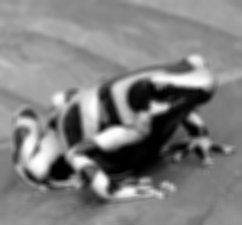
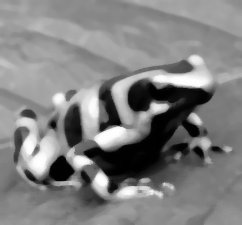
Fixed median filter.

diff --git a/haddock/Data-Image-Internal.html b/haddock/Data-Image-Internal.html
@@ -6,7 +6,7 @@ window.onload = function () {pageLoad();setSynopsis("mini_Data-Image-Internal.ht
 </a></li><li><a href="#g:3">Resizing Images
 </a></li><li><a href="#g:4">Concatenation of Images
 </a></li><li><a href="#g:5">Images as Arrays
-</a></li></ul></div><div id="synopsis"><p id="control.syn" class="caption expander" onclick="toggleSection('syn')">Synopsis</p><ul id="section.syn" class="hide" onclick="toggleSection('syn')"><li class="src short"><span class="keyword">class</span>  <a href="#t:Image">Image</a> i  <span class="keyword">where</span><ul class="subs"><li><span class="keyword">type</span> <a href="#t:Pixel">Pixel</a> i :: *</li><li><a href="#v:makeImage">makeImage</a> :: Int -&gt; Int -&gt; <a href="Data-Image-Internal.html#t:PixelOp">PixelOp</a> (<a href="Data-Image-Internal.html#t:Pixel">Pixel</a> i) -&gt; i</li><li><a href="#v:ref">ref</a> :: i -&gt; Int -&gt; Int -&gt; <a href="Data-Image-Internal.html#t:Pixel">Pixel</a> i</li><li><a href="#v:rows">rows</a> :: i -&gt; Int</li><li><a href="#v:cols">cols</a> :: i -&gt; Int</li><li><a href="#v:pixelList">pixelList</a> :: i -&gt; [<a href="Data-Image-Internal.html#t:Pixel">Pixel</a> i]</li><li><a href="#v:imageOp">imageOp</a> :: (<a href="Data-Image-Internal.html#t:Pixel">Pixel</a> i -&gt; <a href="Data-Image-Internal.html#t:Pixel">Pixel</a> i -&gt; <a href="Data-Image-Internal.html#t:Pixel">Pixel</a> i) -&gt; i -&gt; i -&gt; i</li></ul></li><li class="src short"><span class="keyword">type</span> <a href="#t:PixelOp">PixelOp</a> px = Int -&gt; Int -&gt; px</li><li class="src short"><span class="keyword">class</span>  <a href="#t:MaxMin">MaxMin</a> m  <span class="keyword">where</span><ul class="subs"><li><a href="#v:maximal">maximal</a> :: [m] -&gt; m</li><li><a href="#v:minimal">minimal</a> :: [m] -&gt; m</li></ul></li><li class="src short"><span class="keyword">class</span>  <a href="#t:Listable">Listable</a> a  <span class="keyword">where</span><ul class="subs"><li><span class="keyword">type</span> <a href="#t:Elem">Elem</a> a :: *</li><li><a href="#v:toList">toList</a> :: a -&gt; [<a href="Data-Image-Internal.html#t:Elem">Elem</a> a]</li></ul></li><li class="src short"><a href="#v:dimensions">dimensions</a> :: <a href="Data-Image-Internal.html#t:Image">Image</a> i =&gt; i -&gt; (Int, Int)</li><li class="src short"><a href="#v:maxIntensity">maxIntensity</a> :: (<a href="Data-Image-Internal.html#t:Image">Image</a> img, <a href="Data-Image-Internal.html#t:MaxMin">MaxMin</a> (<a href="Data-Image-Internal.html#t:Pixel">Pixel</a> img)) =&gt; img -&gt; <a href="Data-Image-Internal.html#t:Pixel">Pixel</a> img</li><li class="src short"><a href="#v:minIntensity">minIntensity</a> :: (<a href="Data-Image-Internal.html#t:Image">Image</a> img, <a href="Data-Image-Internal.html#t:MaxMin">MaxMin</a> (<a href="Data-Image-Internal.html#t:Pixel">Pixel</a> img)) =&gt; img -&gt; <a href="Data-Image-Internal.html#t:Pixel">Pixel</a> img</li><li class="src short"><a href="#v:transpose">transpose</a> :: <a href="Data-Image-Internal.html#t:Image">Image</a> img =&gt; img -&gt; img</li><li class="src short"><a href="#v:matrixProduct">matrixProduct</a> :: (<a href="Data-Image-Internal.html#t:Image">Image</a> img, Num (<a href="Data-Image-Internal.html#t:Pixel">Pixel</a> img)) =&gt; img -&gt; img -&gt; img</li><li class="src short"><a href="#v:medianFilter">medianFilter</a> :: (<a href="Data-Image-Internal.html#t:Image">Image</a> img, Fractional (<a href="Data-Image-Internal.html#t:Pixel">Pixel</a> img)) =&gt; Int -&gt; Int -&gt; img -&gt; img</li><li class="src short"><a href="#v:normalize">normalize</a> :: (<a href="Data-Image-Internal.html#t:Image">Image</a> img, <a href="Data-Image-Internal.html#t:MaxMin">MaxMin</a> (<a href="Data-Image-Internal.html#t:Pixel">Pixel</a> img), Fractional (<a href="Data-Image-Internal.html#t:Pixel">Pixel</a> img)) =&gt; img -&gt; img</li><li class="src short"><a href="#v:imageFold">imageFold</a> :: <a href="Data-Image-Internal.html#t:Image">Image</a> img =&gt; (<a href="Data-Image-Internal.html#t:Pixel">Pixel</a> img -&gt; b -&gt; b) -&gt; b -&gt; img -&gt; b</li><li class="src short"><a href="#v:imageMap">imageMap</a> :: (<a href="Data-Image-Internal.html#t:Image">Image</a> img, <a href="Data-Image-Internal.html#t:Image">Image</a> img') =&gt; (<a href="Data-Image-Internal.html#t:Pixel">Pixel</a> img -&gt; <a href="Data-Image-Internal.html#t:Pixel">Pixel</a> img') -&gt; img -&gt; img'</li><li class="src short"><a href="#v:pad">pad</a> :: (<a href="Data-Image-Internal.html#t:Image">Image</a> img, Monoid (<a href="Data-Image-Internal.html#t:Pixel">Pixel</a> img)) =&gt; Int -&gt; Int -&gt; img -&gt; img</li><li class="src short"><a href="#v:crop">crop</a> :: <a href="Data-Image-Internal.html#t:Image">Image</a> img =&gt; Int -&gt; Int -&gt; Int -&gt; Int -&gt; img -&gt; img</li><li class="src short"><a href="#v:downsampleRows">downsampleRows</a> :: <a href="Data-Image-Internal.html#t:Image">Image</a> img =&gt; img -&gt; img</li><li class="src short"><a href="#v:downsampleCols">downsampleCols</a> :: <a href="Data-Image-Internal.html#t:Image">Image</a> img =&gt; img -&gt; img</li><li class="src short"><a href="#v:downsample">downsample</a> :: <a href="Data-Image-Internal.html#t:Image">Image</a> img =&gt; img -&gt; img</li><li class="src short"><a href="#v:upsampleRows">upsampleRows</a> :: (<a href="Data-Image-Internal.html#t:Image">Image</a> img, Monoid (<a href="Data-Image-Internal.html#t:Pixel">Pixel</a> img)) =&gt; img -&gt; img</li><li class="src short"><a href="#v:upsampleCols">upsampleCols</a> :: (<a href="Data-Image-Internal.html#t:Image">Image</a> img, Monoid (<a href="Data-Image-Internal.html#t:Pixel">Pixel</a> img)) =&gt; img -&gt; img</li><li class="src short"><a href="#v:upsample">upsample</a> :: (<a href="Data-Image-Internal.html#t:Image">Image</a> img, Monoid (<a href="Data-Image-Internal.html#t:Pixel">Pixel</a> img)) =&gt; img -&gt; img</li><li class="src short"><a href="#v:leftToRight">leftToRight</a> :: <a href="Data-Image-Internal.html#t:Image">Image</a> img =&gt; img -&gt; img -&gt; img</li><li class="src short"><a href="#v:leftToRight-39-">leftToRight'</a> :: (<a href="Data-Image-Internal.html#t:Listable">Listable</a> a, <a href="Data-Image-Internal.html#t:Image">Image</a> img, <a href="Data-Image-Internal.html#t:Image">Image</a> (<a href="Data-Image-Internal.html#t:Elem">Elem</a> a), <a href="Data-Image-Internal.html#t:Elem">Elem</a> a ~ img) =&gt; a -&gt; img</li><li class="src short"><a href="#v:topToBottom">topToBottom</a> :: <a href="Data-Image-Internal.html#t:Image">Image</a> img =&gt; img -&gt; img -&gt; img</li><li class="src short"><a href="#v:topToBottom-39-">topToBottom'</a> :: (<a href="Data-Image-Internal.html#t:Listable">Listable</a> a, <a href="Data-Image-Internal.html#t:Image">Image</a> img, <a href="Data-Image-Internal.html#t:Image">Image</a> (<a href="Data-Image-Internal.html#t:Elem">Elem</a> a), <a href="Data-Image-Internal.html#t:Elem">Elem</a> a ~ img) =&gt; a -&gt; img</li><li class="src short"><a href="#v:imageToArray">imageToArray</a> :: <a href="Data-Image-Internal.html#t:Image">Image</a> img =&gt; img -&gt; Array (Int, Int) (<a href="Data-Image-Internal.html#t:Pixel">Pixel</a> img)</li><li class="src short"><a href="#v:arrayToImage">arrayToImage</a> :: <a href="Data-Image-Internal.html#t:Image">Image</a> img =&gt; Array (Int, Int) (<a href="Data-Image-Internal.html#t:Pixel">Pixel</a> img) -&gt; img</li></ul></div><div id="interface"><h1 id="g:1">Images
+</a></li></ul></div><div id="synopsis"><p id="control.syn" class="caption expander" onclick="toggleSection('syn')">Synopsis</p><ul id="section.syn" class="hide" onclick="toggleSection('syn')"><li class="src short"><span class="keyword">class</span>  <a href="#t:Image">Image</a> i  <span class="keyword">where</span><ul class="subs"><li><span class="keyword">type</span> <a href="#t:Pixel">Pixel</a> i :: *</li><li><a href="#v:makeImage">makeImage</a> :: Int -&gt; Int -&gt; <a href="Data-Image-Internal.html#t:PixelOp">PixelOp</a> (<a href="Data-Image-Internal.html#t:Pixel">Pixel</a> i) -&gt; i</li><li><a href="#v:ref">ref</a> :: i -&gt; Int -&gt; Int -&gt; <a href="Data-Image-Internal.html#t:Pixel">Pixel</a> i</li><li><a href="#v:rows">rows</a> :: i -&gt; Int</li><li><a href="#v:cols">cols</a> :: i -&gt; Int</li><li><a href="#v:pixelList">pixelList</a> :: i -&gt; [<a href="Data-Image-Internal.html#t:Pixel">Pixel</a> i]</li><li><a href="#v:imageOp">imageOp</a> :: (<a href="Data-Image-Internal.html#t:Pixel">Pixel</a> i -&gt; <a href="Data-Image-Internal.html#t:Pixel">Pixel</a> i -&gt; <a href="Data-Image-Internal.html#t:Pixel">Pixel</a> i) -&gt; i -&gt; i -&gt; i</li></ul></li><li class="src short"><span class="keyword">type</span> <a href="#t:PixelOp">PixelOp</a> px = Int -&gt; Int -&gt; px</li><li class="src short"><span class="keyword">class</span>  <a href="#t:MaxMin">MaxMin</a> m  <span class="keyword">where</span><ul class="subs"><li><a href="#v:maximal">maximal</a> :: [m] -&gt; m</li><li><a href="#v:minimal">minimal</a> :: [m] -&gt; m</li></ul></li><li class="src short"><span class="keyword">class</span>  <a href="#t:Listable">Listable</a> a  <span class="keyword">where</span><ul class="subs"><li><span class="keyword">type</span> <a href="#t:Elem">Elem</a> a :: *</li><li><a href="#v:toList">toList</a> :: a -&gt; [<a href="Data-Image-Internal.html#t:Elem">Elem</a> a]</li></ul></li><li class="src short"><a href="#v:dimensions">dimensions</a> :: <a href="Data-Image-Internal.html#t:Image">Image</a> i =&gt; i -&gt; (Int, Int)</li><li class="src short"><a href="#v:maxIntensity">maxIntensity</a> :: (<a href="Data-Image-Internal.html#t:Image">Image</a> img, <a href="Data-Image-Internal.html#t:MaxMin">MaxMin</a> (<a href="Data-Image-Internal.html#t:Pixel">Pixel</a> img)) =&gt; img -&gt; <a href="Data-Image-Internal.html#t:Pixel">Pixel</a> img</li><li class="src short"><a href="#v:minIntensity">minIntensity</a> :: (<a href="Data-Image-Internal.html#t:Image">Image</a> img, <a href="Data-Image-Internal.html#t:MaxMin">MaxMin</a> (<a href="Data-Image-Internal.html#t:Pixel">Pixel</a> img)) =&gt; img -&gt; <a href="Data-Image-Internal.html#t:Pixel">Pixel</a> img</li><li class="src short"><a href="#v:transpose">transpose</a> :: <a href="Data-Image-Internal.html#t:Image">Image</a> img =&gt; img -&gt; img</li><li class="src short"><a href="#v:matrixProduct">matrixProduct</a> :: (<a href="Data-Image-Internal.html#t:Image">Image</a> img, Num (<a href="Data-Image-Internal.html#t:Pixel">Pixel</a> img)) =&gt; img -&gt; img -&gt; img</li><li class="src short"><a href="#v:medianFilter">medianFilter</a> :: (<a href="Data-Image-Internal.html#t:Image">Image</a> img, Ord (<a href="Data-Image-Internal.html#t:Pixel">Pixel</a> img)) =&gt; Int -&gt; Int -&gt; img -&gt; img</li><li class="src short"><a href="#v:normalize">normalize</a> :: (<a href="Data-Image-Internal.html#t:Image">Image</a> img, <a href="Data-Image-Internal.html#t:MaxMin">MaxMin</a> (<a href="Data-Image-Internal.html#t:Pixel">Pixel</a> img), Fractional (<a href="Data-Image-Internal.html#t:Pixel">Pixel</a> img)) =&gt; img -&gt; img</li><li class="src short"><a href="#v:imageFold">imageFold</a> :: <a href="Data-Image-Internal.html#t:Image">Image</a> img =&gt; (<a href="Data-Image-Internal.html#t:Pixel">Pixel</a> img -&gt; b -&gt; b) -&gt; b -&gt; img -&gt; b</li><li class="src short"><a href="#v:imageMap">imageMap</a> :: (<a href="Data-Image-Internal.html#t:Image">Image</a> img, <a href="Data-Image-Internal.html#t:Image">Image</a> img') =&gt; (<a href="Data-Image-Internal.html#t:Pixel">Pixel</a> img -&gt; <a href="Data-Image-Internal.html#t:Pixel">Pixel</a> img') -&gt; img -&gt; img'</li><li class="src short"><a href="#v:pad">pad</a> :: (<a href="Data-Image-Internal.html#t:Image">Image</a> img, Monoid (<a href="Data-Image-Internal.html#t:Pixel">Pixel</a> img)) =&gt; Int -&gt; Int -&gt; img -&gt; img</li><li class="src short"><a href="#v:crop">crop</a> :: <a href="Data-Image-Internal.html#t:Image">Image</a> img =&gt; Int -&gt; Int -&gt; Int -&gt; Int -&gt; img -&gt; img</li><li class="src short"><a href="#v:downsampleRows">downsampleRows</a> :: <a href="Data-Image-Internal.html#t:Image">Image</a> img =&gt; img -&gt; img</li><li class="src short"><a href="#v:downsampleCols">downsampleCols</a> :: <a href="Data-Image-Internal.html#t:Image">Image</a> img =&gt; img -&gt; img</li><li class="src short"><a href="#v:downsample">downsample</a> :: <a href="Data-Image-Internal.html#t:Image">Image</a> img =&gt; img -&gt; img</li><li class="src short"><a href="#v:upsampleRows">upsampleRows</a> :: (<a href="Data-Image-Internal.html#t:Image">Image</a> img, Monoid (<a href="Data-Image-Internal.html#t:Pixel">Pixel</a> img)) =&gt; img -&gt; img</li><li class="src short"><a href="#v:upsampleCols">upsampleCols</a> :: (<a href="Data-Image-Internal.html#t:Image">Image</a> img, Monoid (<a href="Data-Image-Internal.html#t:Pixel">Pixel</a> img)) =&gt; img -&gt; img</li><li class="src short"><a href="#v:upsample">upsample</a> :: (<a href="Data-Image-Internal.html#t:Image">Image</a> img, Monoid (<a href="Data-Image-Internal.html#t:Pixel">Pixel</a> img)) =&gt; img -&gt; img</li><li class="src short"><a href="#v:leftToRight">leftToRight</a> :: <a href="Data-Image-Internal.html#t:Image">Image</a> img =&gt; img -&gt; img -&gt; img</li><li class="src short"><a href="#v:leftToRight-39-">leftToRight'</a> :: (<a href="Data-Image-Internal.html#t:Listable">Listable</a> a, <a href="Data-Image-Internal.html#t:Image">Image</a> img, <a href="Data-Image-Internal.html#t:Image">Image</a> (<a href="Data-Image-Internal.html#t:Elem">Elem</a> a), <a href="Data-Image-Internal.html#t:Elem">Elem</a> a ~ img) =&gt; a -&gt; img</li><li class="src short"><a href="#v:topToBottom">topToBottom</a> :: <a href="Data-Image-Internal.html#t:Image">Image</a> img =&gt; img -&gt; img -&gt; img</li><li class="src short"><a href="#v:topToBottom-39-">topToBottom'</a> :: (<a href="Data-Image-Internal.html#t:Listable">Listable</a> a, <a href="Data-Image-Internal.html#t:Image">Image</a> img, <a href="Data-Image-Internal.html#t:Image">Image</a> (<a href="Data-Image-Internal.html#t:Elem">Elem</a> a), <a href="Data-Image-Internal.html#t:Elem">Elem</a> a ~ img) =&gt; a -&gt; img</li><li class="src short"><a href="#v:imageToArray">imageToArray</a> :: <a href="Data-Image-Internal.html#t:Image">Image</a> img =&gt; img -&gt; Array (Int, Int) (<a href="Data-Image-Internal.html#t:Pixel">Pixel</a> img)</li><li class="src short"><a href="#v:arrayToImage">arrayToImage</a> :: <a href="Data-Image-Internal.html#t:Image">Image</a> img =&gt; Array (Int, Int) (<a href="Data-Image-Internal.html#t:Pixel">Pixel</a> img) -&gt; img</li></ul></div><div id="interface"><h1 id="g:1">Images
 </h1><div class="top"><p class="src"><span class="keyword">class</span>  <a name="t:Image" class="def">Image</a> i  <span class="keyword">where</span></p><div class="doc"><p>An Image can be thought of as a 2 dimensional array of pixel values
 </p></div><div class="subs associated-types"><p class="caption">Associated Types</p><p class="src"><span class="keyword">type</span> <a name="t:Pixel" class="def">Pixel</a> i :: *</p><div class="doc"><p>The type of Pixel to be stored in images of type i.
 </p></div></div><div class="subs methods"><p class="caption">Methods</p><p class="src"><a name="v:makeImage" class="def">makeImage</a> :: Int -&gt; Int -&gt; <a href="Data-Image-Internal.html#t:PixelOp">PixelOp</a> (<a href="Data-Image-Internal.html#t:Pixel">Pixel</a> i) -&gt; i</p><div class="doc"><p>Given an Int m, Int n, and a PixelOp f, returns an Image with      
@@ -75,7 +75,7 @@ window.onload = function () {pageLoad();setSynopsis("mini_Data-Image-Internal.ht
 </code></strong><code class="prompt">&gt;&gt;&gt; </code><strong class="userinput"><code>matrixProduct cropped cropped
 </code></strong>&lt; Image 128x128 &gt;
 </pre><p><a href="https://raw.github.com/jcollard/unm-hip/master/examples/matrixproduct.jpg">https://raw.github.com/jcollard/unm-hip/master/examples/matrixproduct.jpg</a>
-</p></div></div><div class="top"><p class="src"><a name="v:medianFilter" class="def">medianFilter</a> :: (<a href="Data-Image-Internal.html#t:Image">Image</a> img, Fractional (<a href="Data-Image-Internal.html#t:Pixel">Pixel</a> img)) =&gt; Int -&gt; Int -&gt; img -&gt; img</p><div class="doc"><p>Given two positive integers, m and n and a an image, 
+</p></div></div><div class="top"><p class="src"><a name="v:medianFilter" class="def">medianFilter</a> :: (<a href="Data-Image-Internal.html#t:Image">Image</a> img, Ord (<a href="Data-Image-Internal.html#t:Pixel">Pixel</a> img)) =&gt; Int -&gt; Int -&gt; img -&gt; img</p><div class="doc"><p>Given two positive integers, m and n and a an image, 
     medianFilter returns an image with the same dimensions where each 
     pixel (i, j) in <a href="image">image</a> is replaced by the pixel with median value 
     in the neighborhood of size m times n centered on (i, j).
